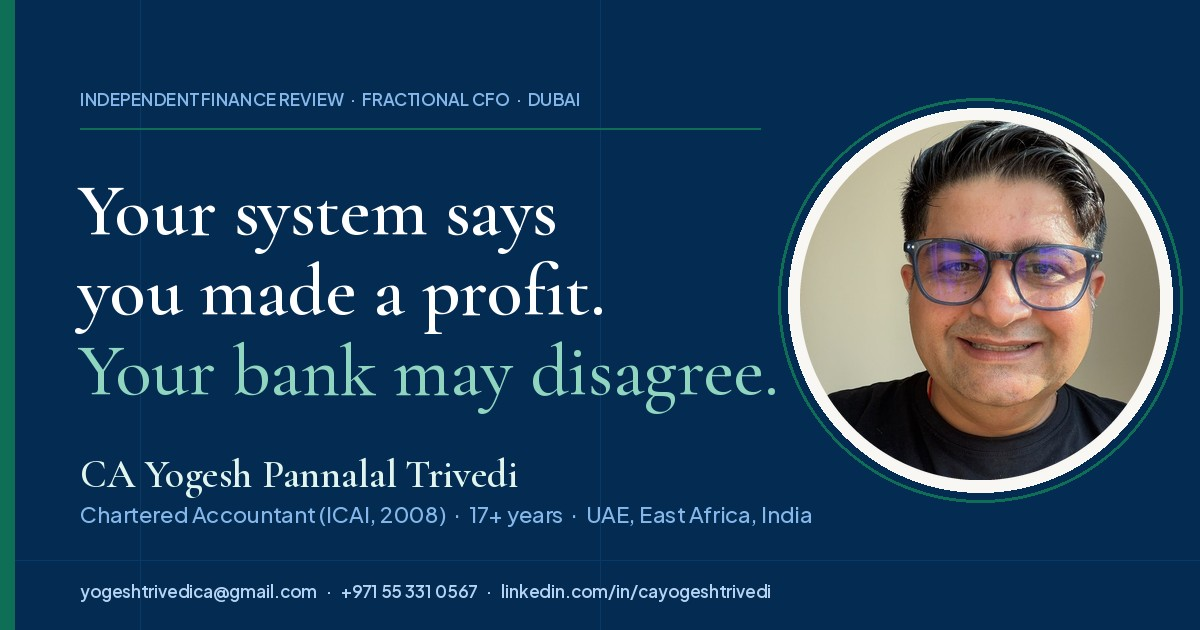
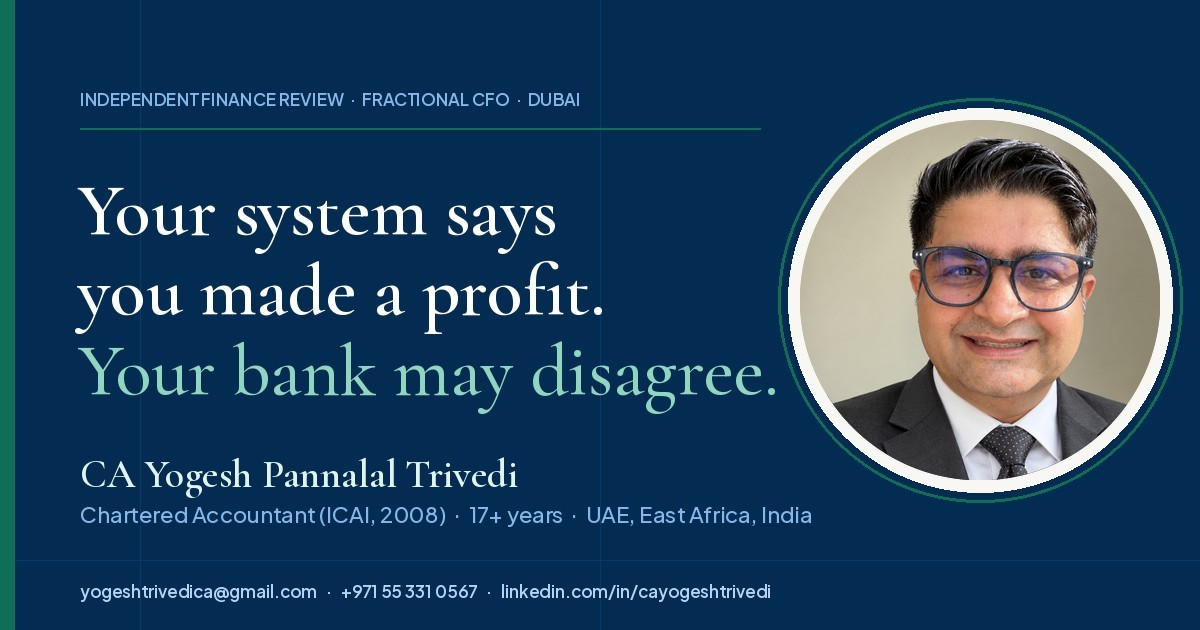
New portrait photo; TGM description: Virtual CFO, Finance Health Check and Business Strategist
Also refreshes the portrait in the link-preview image (og-image.jpg).

Claude-Session: https://claude.ai/code/session_014tV9oeYEpLNZtq5BrK5pLn

Changed region(s): [[0.6783, 0.181, 0.9558, 0.7841]]

diff --git a/frontend/src/data/profile.js b/frontend/src/data/profile.js
@@ -92,7 +92,7 @@ export const results = [
 ];
 
 export const career = [
-  { years: "2026 – now", role: "Founder, TGM Accounting & Auditing LLC, Dubai", detail: "finance review, fractional CFO, capital readiness", current: true },
+  { years: "2026 – now", role: "Founder, TGM Accounting & Auditing LLC, Dubai", detail: "Virtual CFO, Finance Health Check and Business Strategist", current: true },
   { years: "2025 – 2026", role: "Group Finance Manager, Joga Ram Group, Dubai", detail: "building materials, joinery, fit-out" },
   { years: "2021 – 2025", role: "CFO (fractional, then full-time), Eaglite General Trading, Dubai", detail: "three-country trading group" },
   { years: "2022", role: "Fractional CFO, Lake Trans Logistics", detail: "five East African countries" },
